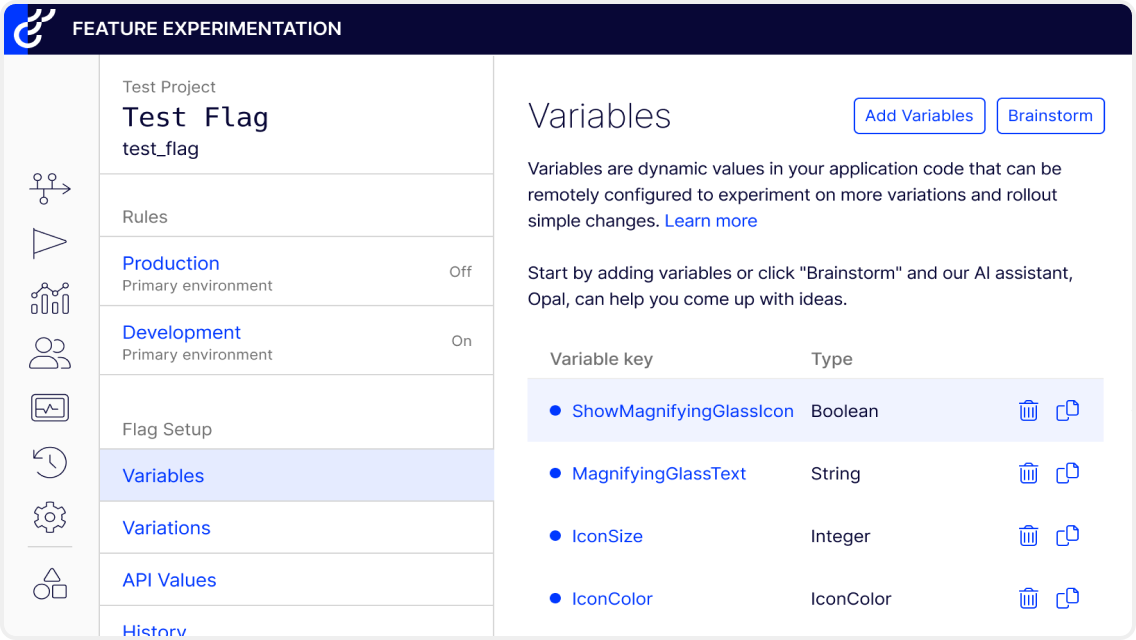
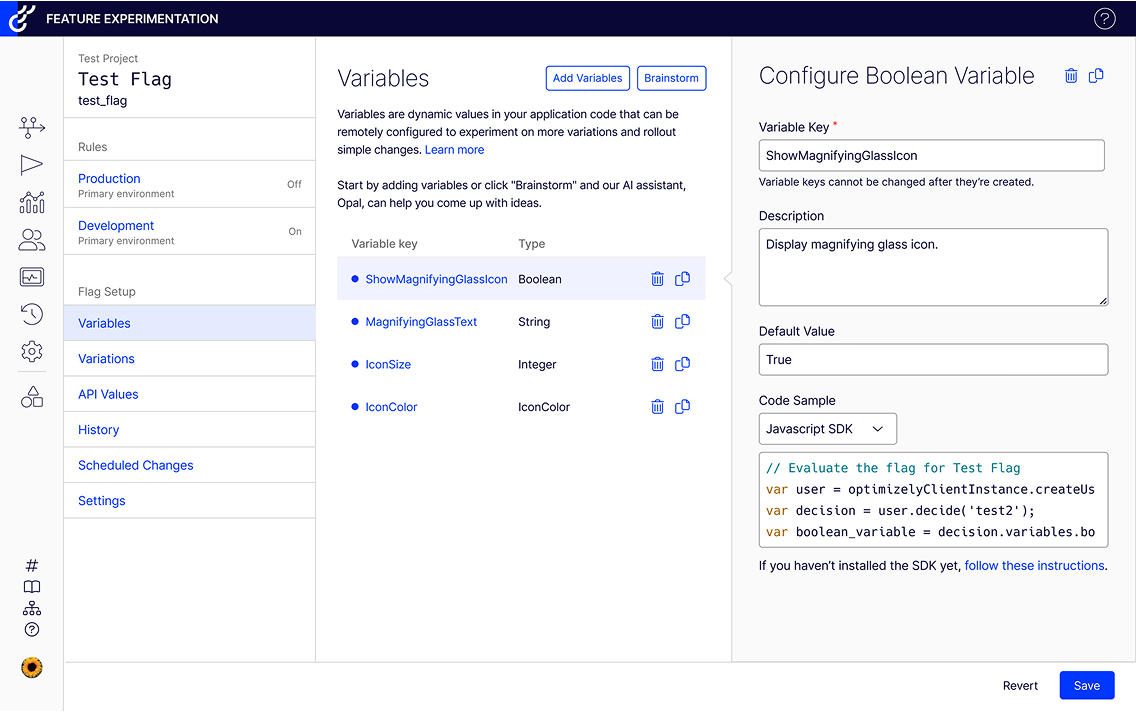
Update case study lightbox and thumbnail images
Replace lightbox images for Experiment AI copy suggestions, Conclude
experiments, and Variable suggestions case studies with higher-resolution
or more relevant screenshots, and swap the second Variable suggestions
thumbnail.

diff --git a/src/data/case-studies.ts b/src/data/case-studies.ts
@@ -93,7 +93,7 @@ export const caseStudies: CaseStudy[] = [
     status: "Shipped in summer 2025",
     impact: "Product adoption increase by 12%",
     images: [
-      { src: "/images/case-studies/modal/conclude-experiments/1.png", lightboxSrc: "/images/case-studies/modal/conclude-experiments/1-full.png" },
+      { src: "/images/case-studies/modal/conclude-experiments/1.png", lightboxSrc: "/images/case-studies/modal/conclude-experiments/reports.png" },
       { src: "/images/case-studies/modal/conclude-experiments/2.png", objectPosition: "48% 71%" },
     ],
     body: [
@@ -121,7 +121,7 @@ export const caseStudies: CaseStudy[] = [
     impact: "Feature adoption increased by 2X",
     images: [
       { src: "/images/case-studies/modal/variable-suggestions/1.png", lightboxSrc: "/images/case-studies/modal/variable-suggestions/1-full.png" },
-      { src: "/images/case-studies/modal/variable-suggestions/2.png", objectPosition: "50% 1%" },
+      { src: "/images/case-studies/modal/variable-suggestions/2.png", objectPosition: "50% 1%", lightboxSrc: "/images/case-studies/modal/variable-suggestions/2-full.png" },
     ],
     body: [
       "Optimizely's Feature Experimentation was purpose-built for engineers, and as the user base expanded to include non-technical users like marketers, that foundation started to create friction. Variables — one of the most powerful features in the product — were going largely unused because the concept was too abstract and the UI assumed technical fluency. Without variables, users couldn't build meaningful experiment variations, which meant fewer experiments, less realized value, and customers at risk of churning.",